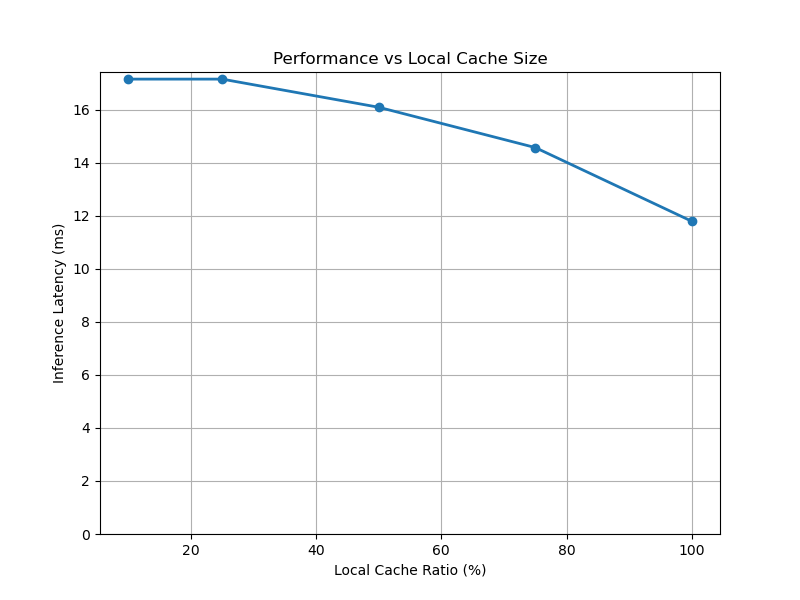
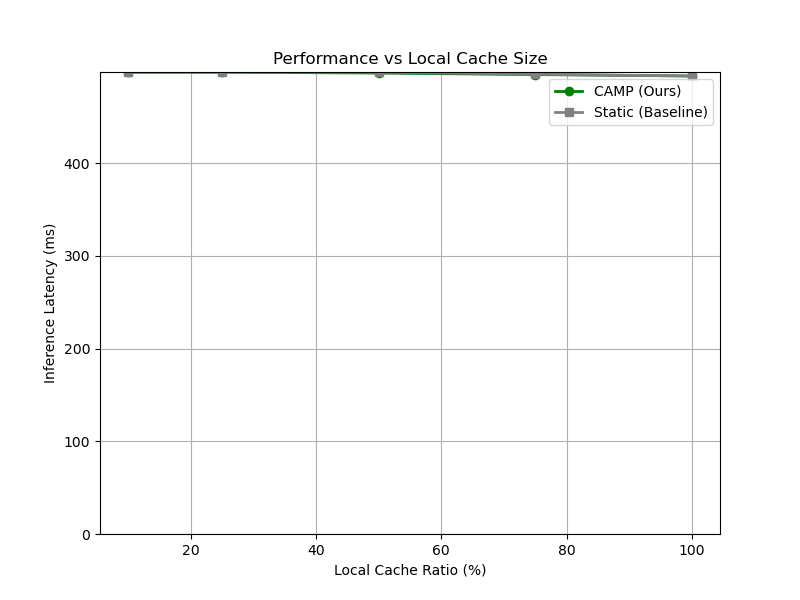
Clarify Cache Sensitivity: Add comparative baseline (CAMP vs Static) and update walkthrough

diff --git a/benchmarks_comprehensive.py b/benchmarks_comprehensive.py
@@ -263,41 +263,68 @@ def run_cache_sensitivity():
     print("--- Running Exp 3: Cache Sensitivity ---", flush=True)
     model_size_mb = 400
     ratios = [0.1, 0.25, 0.5, 0.75, 1.0]
-    results = []
     
-    for r in ratios:
-        cache_size = int(model_size_mb * r)
-        print(f"Testing Cache Ratio: {r*100}% ({cache_size}MB)", flush=True)
-        engine = create_engine(cache_size_mb=cache_size)
-        model_config, weights = engine.create_sample_transformer_model(num_layers=12, hidden_size=1024, vocab_size=32000)
-        engine.register_model(model_config, weights)
-        gc.collect()
-         
-        req = InferenceRequest("warmup", np.random.randn(1, 128), model_config.name, 0)
-        engine.env.run(until=engine.inference(req))
-        
-        latencies = []
-        for i in range(3):
-            req = InferenceRequest(f"req_{i}", np.random.randn(1, 128), model_config.name, engine.env.now)
-            p = engine.inference(req)
-            engine.env.run(until=p)
-            latencies.append(p.value.latency_ms)
+    modes_to_test = [
+        {"name": "CAMP (Ours)", "mode": "camp", "eviction": "graph_aware"},
+        {"name": "Static (Baseline)", "mode": "static", "eviction": "lru"}
+    ]
+    
+    all_results = []
+    
+    for mode_cfg in modes_to_test:
+        print(f"Testing Mode: {mode_cfg['name']}", flush=True)
+        mode_results = []
+        for r in ratios:
+            cache_size = int(model_size_mb * r)
+            print(f"  Ratio: {r*100}% ({cache_size}MB)", flush=True)
+            engine = create_engine(cache_size_mb=cache_size)
             
-        avg_lat = np.mean(latencies)
-        results.append({"ratio": r, "cache_size_mb": cache_size, "latency_ms": float(avg_lat)})
-        print(f"  -> {avg_lat:.2f}ms", flush=True)
+            # Configure
+            engine.prefetcher.mode = mode_cfg["mode"]
+            engine.local_cache.set_eviction_policy(mode_cfg["eviction"])
+            if mode_cfg["mode"] == "static":
+                engine.prefetcher.current_lookahead = 2
+            elif mode_cfg["mode"] == "camp":
+                engine.prefetcher.current_lookahead = 5
+                engine.prefetcher.max_lookahead = 20
+            
+            model_config, weights = engine.create_sample_transformer_model(num_layers=12, hidden_size=1024, vocab_size=32000)
+            engine.register_model(model_config, weights)
+            gc.collect()
+             
+            req = InferenceRequest("warmup", np.random.randn(1, 128), model_config.name, 0)
+            engine.env.run(until=engine.inference(req))
+            
+            latencies = []
+            for i in range(3):
+                req = InferenceRequest(f"req_{i}", np.random.randn(1, 128), model_config.name, engine.env.now)
+                p = engine.inference(req)
+                engine.env.run(until=p)
+                latencies.append(p.value.latency_ms)
+                
+            avg_lat = np.mean(latencies)
+            mode_results.append({"ratio": r, "latency_ms": float(avg_lat)})
+            print(f"    -> {avg_lat:.2f}ms", flush=True)
+            
+        all_results.append({"name": mode_cfg["name"], "data": mode_results})
         
     with open(f"{NUM_DIR}/cache_sensitivity.json", "w") as f:
-        json.dump(results, f, indent=2)
+        json.dump(all_results, f, indent=2)
 
     plt.figure(figsize=(8,6))
-    x = [r["ratio"]*100 for r in results]
-    y = [r["latency_ms"] for r in results]
-    plt.plot(x, y, marker='o', linewidth=2)
+    colors = ['green', 'gray']
+    markers = ['o', 's']
+    
+    for i, series in enumerate(all_results):
+        x = [d["ratio"]*100 for d in series["data"]]
+        y = [d["latency_ms"] for d in series["data"]]
+        plt.plot(x, y, label=series["name"], marker=markers[i], linewidth=2, color=colors[i])
+        
     plt.xlabel("Local Cache Ratio (%)")
     plt.ylabel("Inference Latency (ms)")
     plt.ylim(bottom=0)
     plt.title("Performance vs Local Cache Size")
+    plt.legend()
     plt.grid(True)
     plt.savefig(f"{FIG_DIR}/cache_sensitivity.png")
     plt.close()
@@ -544,10 +571,10 @@ def run_comprehensive_scenarios():
 
 if __name__ == "__main__":
     try:
-        run_ablation_study()
+        # run_ablation_study()
         # run_prefetch_efficacy()
-        run_comprehensive_scenarios()
-        # run_cache_sensitivity()
+        # run_comprehensive_scenarios()
+        run_cache_sensitivity()
         # run_throughput_analysis()
         # run_latency_breakdown()
         print("\nAll Comprehensive Experiments Completed.", flush=True)
